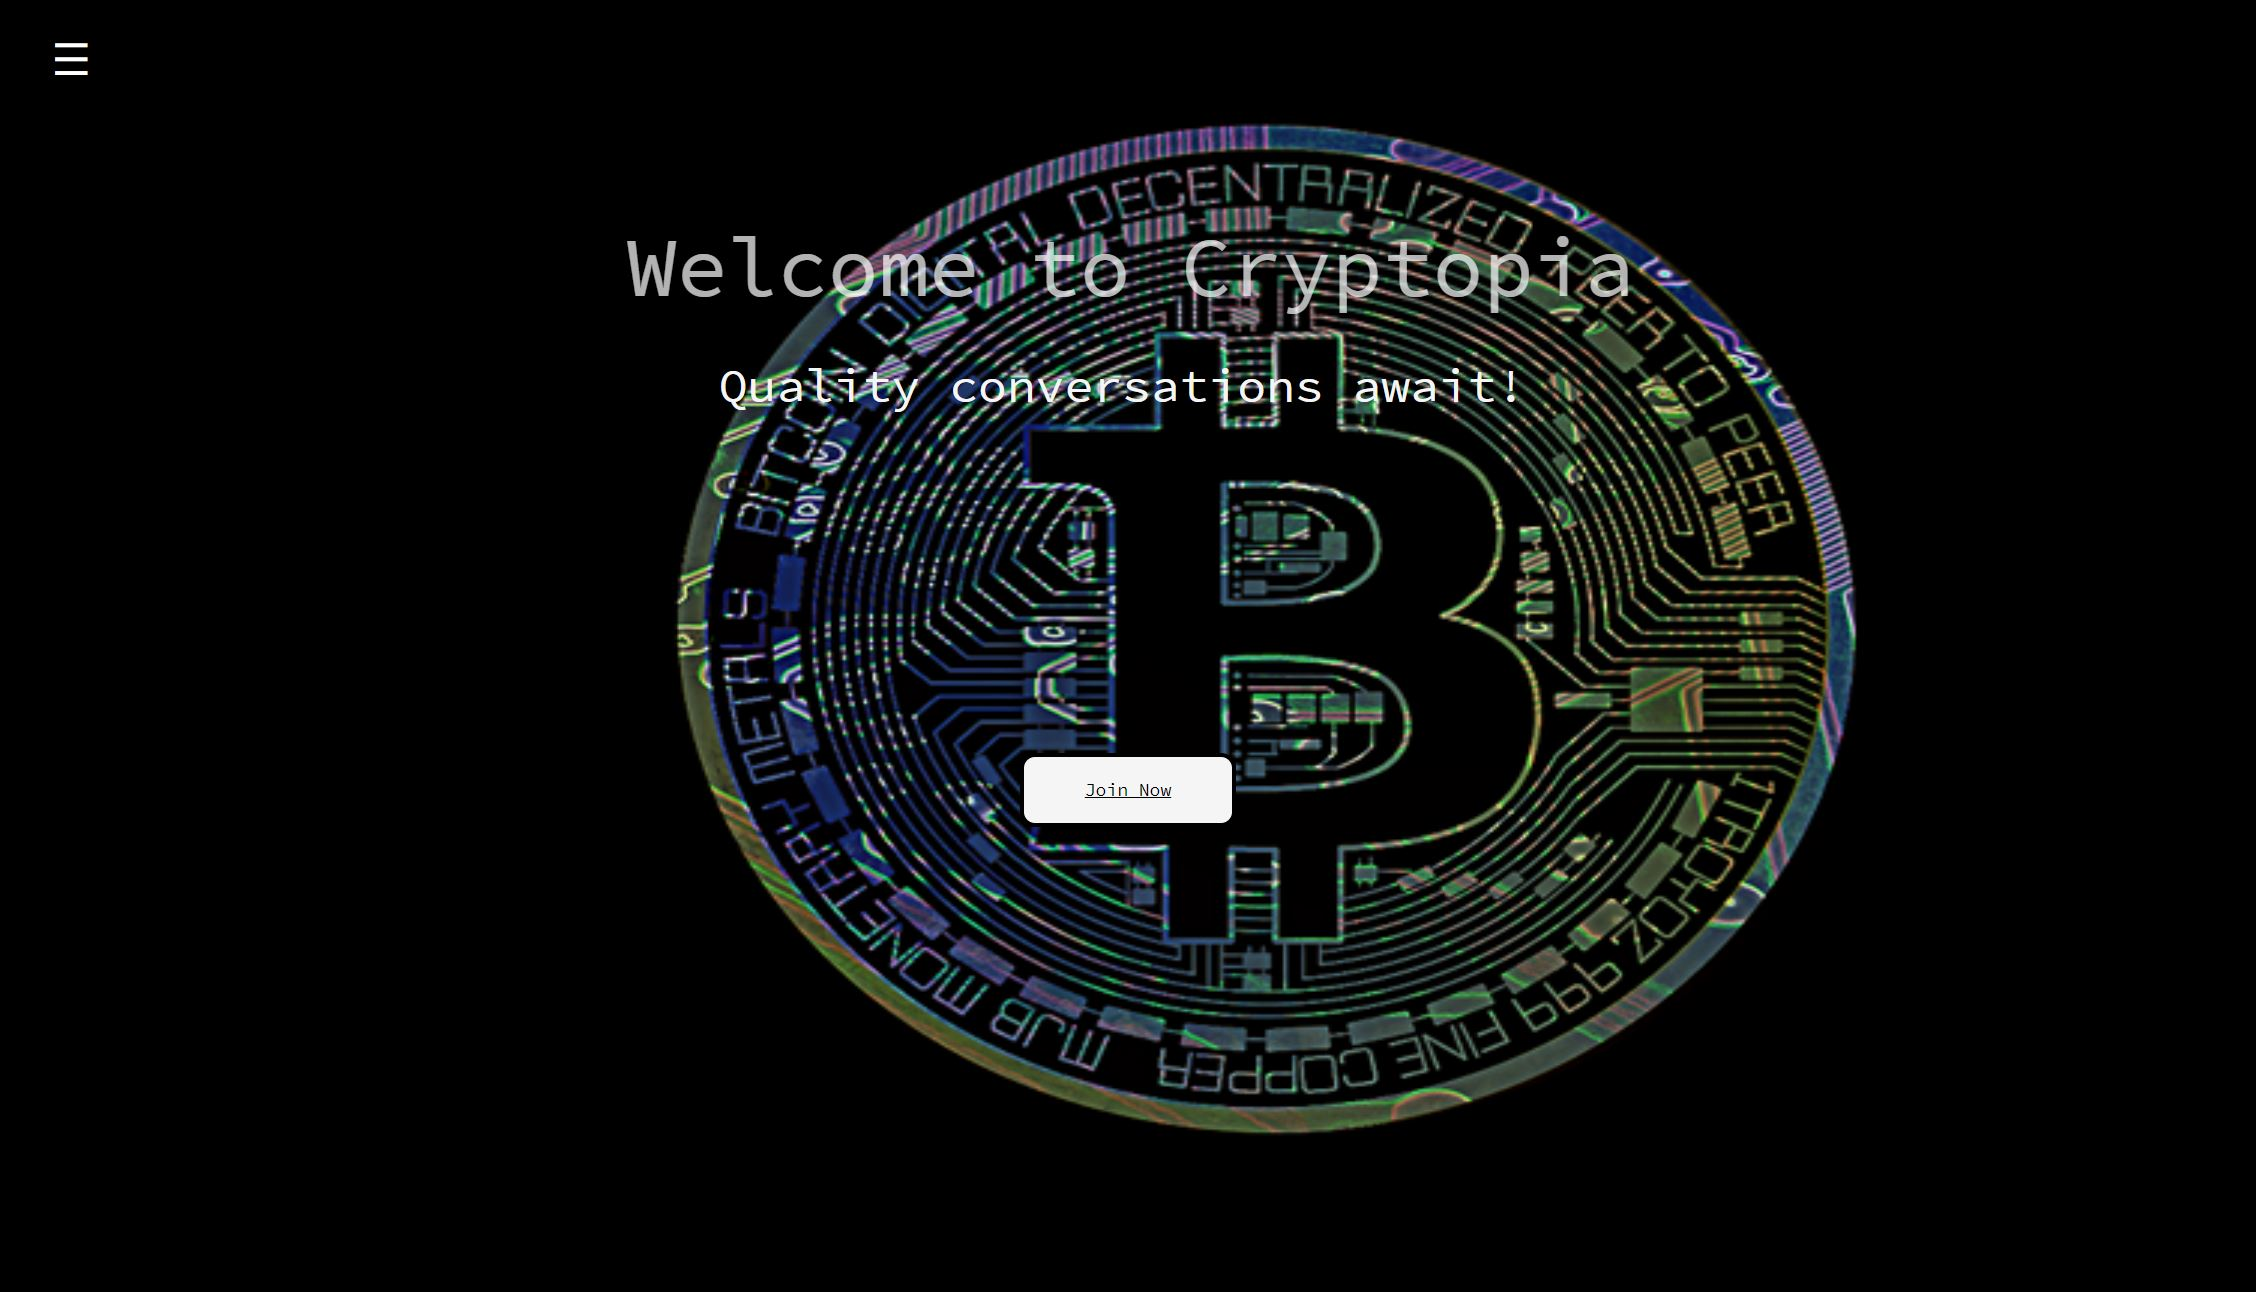
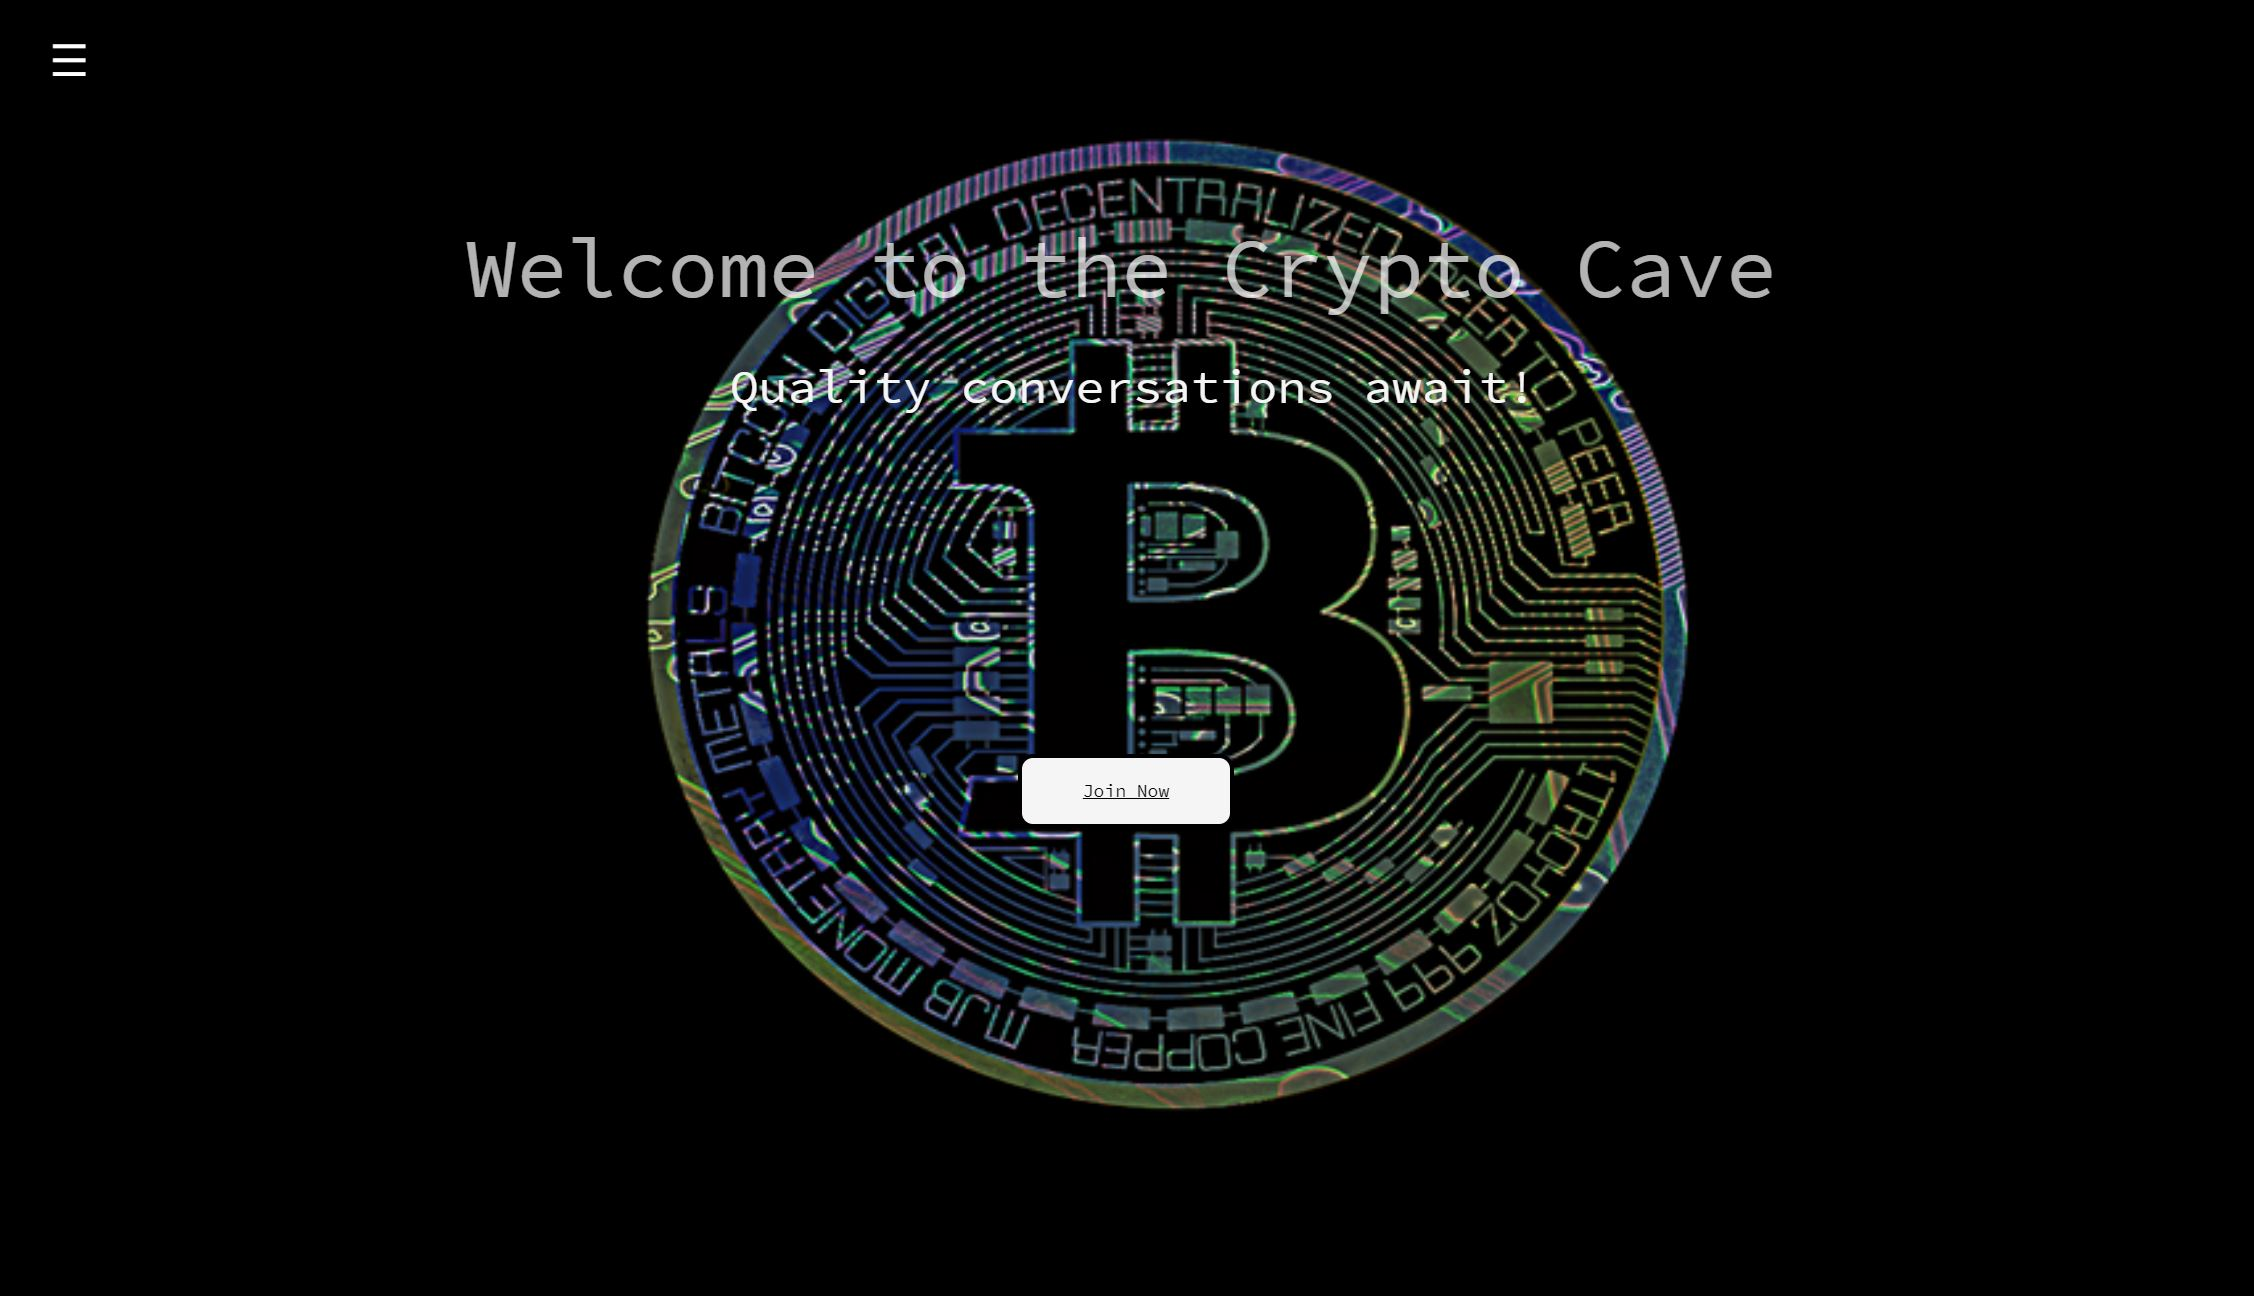
small changes

Changed region(s): [[0.1863, 0.0929, 0.8385, 0.8978]]

diff --git a/public/index.html b/public/index.html
@@ -7,7 +7,7 @@
     <meta name="theme-color" content="#000000" />
     <meta
       name="description"
-      content="Cryptopia Landing Page"
+      content="Crypto Cave Landing Page"
     />
     <link rel="apple-touch-icon" href="https://img.icons8.com/clouds/100/000000/bitcoin.png" />
     <link rel="shortcut-icon" href="https://img.icons8.com/clouds/100/000000/bitcoin.png" />
@@ -25,7 +25,7 @@
       work correctly both with client-side routing and a non-root public URL.
       Learn how to configure a non-root public URL by running `npm run build`.
     -->
-    <title>Cryptopia</title>
+    <title>Crypto Cave</title>
   </head>
   <body>
 
@@ -40,9 +40,6 @@
     <div id = "typeform">
       <a class="typeform-share button" href="https://form.typeform.com/to/XouQKCo9" data-mode="drawer_left" id = "button1" target="_blank">Join Now</a> <script> (function() { var qs,js,q,s,d=document, gi=d.getElementById, ce=d.createElement, gt=d.getElementsByTagName, id="typef_orm_share", b="https://embed.typeform.com/"; if(!gi.call(d,id)){ js=ce.call(d,"script"); js.id=id; js.src=b+"embed.js"; q=gt.call(d,"script")[0]; q.parentNode.insertBefore(js,q) } })() </script>
     </div>
-
-   
-
 
 
     <!--

diff --git a/src/App.js b/src/App.js
@@ -7,8 +7,8 @@ export class App extends React.Component{
     return(
      <div>
    
-       <div id="parent">Welcome to Cryptopia<div id="border"></div></div>
-       <div id="parent"><a id = "main-statement">Quality conversations await!</a><div id="border"></div></div>
+       <div id="parent">Welcome to the Crypto Cave<div id="border"></div></div>
+       <div id="parent"><a id = "main-statement">Quality conversations await.</a><div id="border"></div></div>
        
       
      </div>
@@ -20,7 +20,7 @@ export class Mission extends React.Component{
   render(){
     return(
       <div>
-        <p id = "mission-text">A community of  <em>young builders</em>, <em>hackers</em>, and <em>makers</em> in Chicago. The club you wished you had – when you didn't have it. Egos left at the door. Zero tolerance for negativity. And one goal in mind: <u>build</u>, not tear down.</p>
+        <p id = "mission-text">A community of <em>young builders</em>, <em>hackers</em>, and <em>makers</em> in Chicago. The club you wished you had – when you didn't have it. Egos left at the door. Zero tolerance for negativity. And one goal in mind: <u>build</u>, not tear down.</p>
       </div>
     )
   }

diff --git a/src/App.css b/src/App.css
@@ -54,7 +54,7 @@ body{
   font-weight: 100;
   color: whitesmoke;
   position: relative;
-  left: 7%;
+  left: 20%;
 
 }
 
@@ -73,7 +73,7 @@ body{
   font-size: 3.5rem;
   color: rgba(255,255,255,.70);
   position: relative;
-  left: 12%;
+  left: 0%;
   top: -100px;
 }
 
@@ -116,12 +116,13 @@ body{
     font-size: 6px;
   }
 
+  
     
   #parent {
     white-space: nowrap;
     overflow: hidden;
     font-family: 'Source Code Pro', monospace;  
-    font-size: 1.5rem;
+    font-size: 1.20rem;
     color: rgba(255,255,255,.70);
     position: relative;
     width: 300px;
@@ -149,7 +150,7 @@ body{
     font-weight: 100;
     color: whitesmoke;
     position: relative;;
-    left: 3%;
+    left: 5%;
     
 
   }

diff --git a/src/index.css b/src/index.css
@@ -1,7 +1,7 @@
 body {
   background-image: url("https://external-content.duckduckgo.com/iu/?u=https%3A%2F%2Fget.wallhere.com%2Fphoto%2FBitcoin-cryptocurrency-money-currency-1225487.jpg&f=1&nofb=1");
  /* background: linear-gradient(-45deg, #ee7752, #e73c7e, #23a6d5, #23d5ab);*/
-  background-size: 255% 255%;
+  background-size: 225% 245%;
   animation: gradient 20s ease infinite;
 }
 /* background: linear-gradient(-45deg, #ee7752, #e73c7e, #23a6d5, #23d5ab); */

diff --git a/README.md b/README.md
@@ -10,8 +10,7 @@ Website: https://techunity.dev/
 ## About
 
 
-A community of young builders, hackers, and makers in Chicago. The club you wished you had – when you didn't have it.
-Egos left at the door. Zero tolerance for negativity. And one goal in mind: build, not tear down.
+A growing community for younger builders, engineers, researchers, and investors. Listen to the latest crypto-conversations and always be up to date. See what passionate builders are up to these days. Learn from "Crypto Talks" featuring conversations with industry professionals and experienced individuals. 
 
 
 Apply now: https://techunity.dev/
